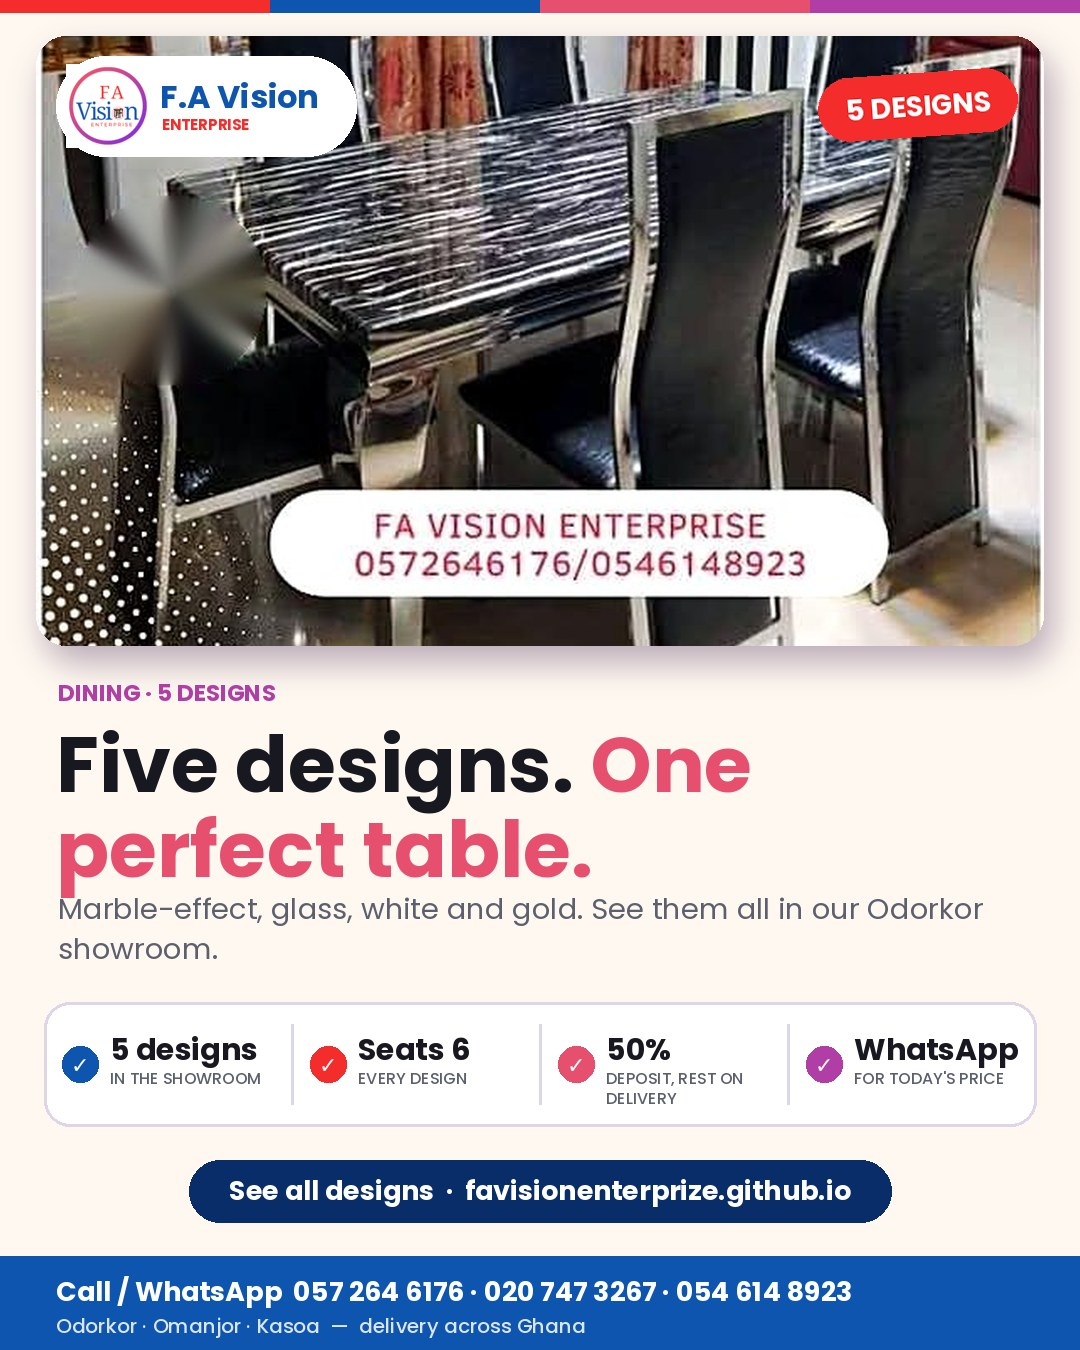
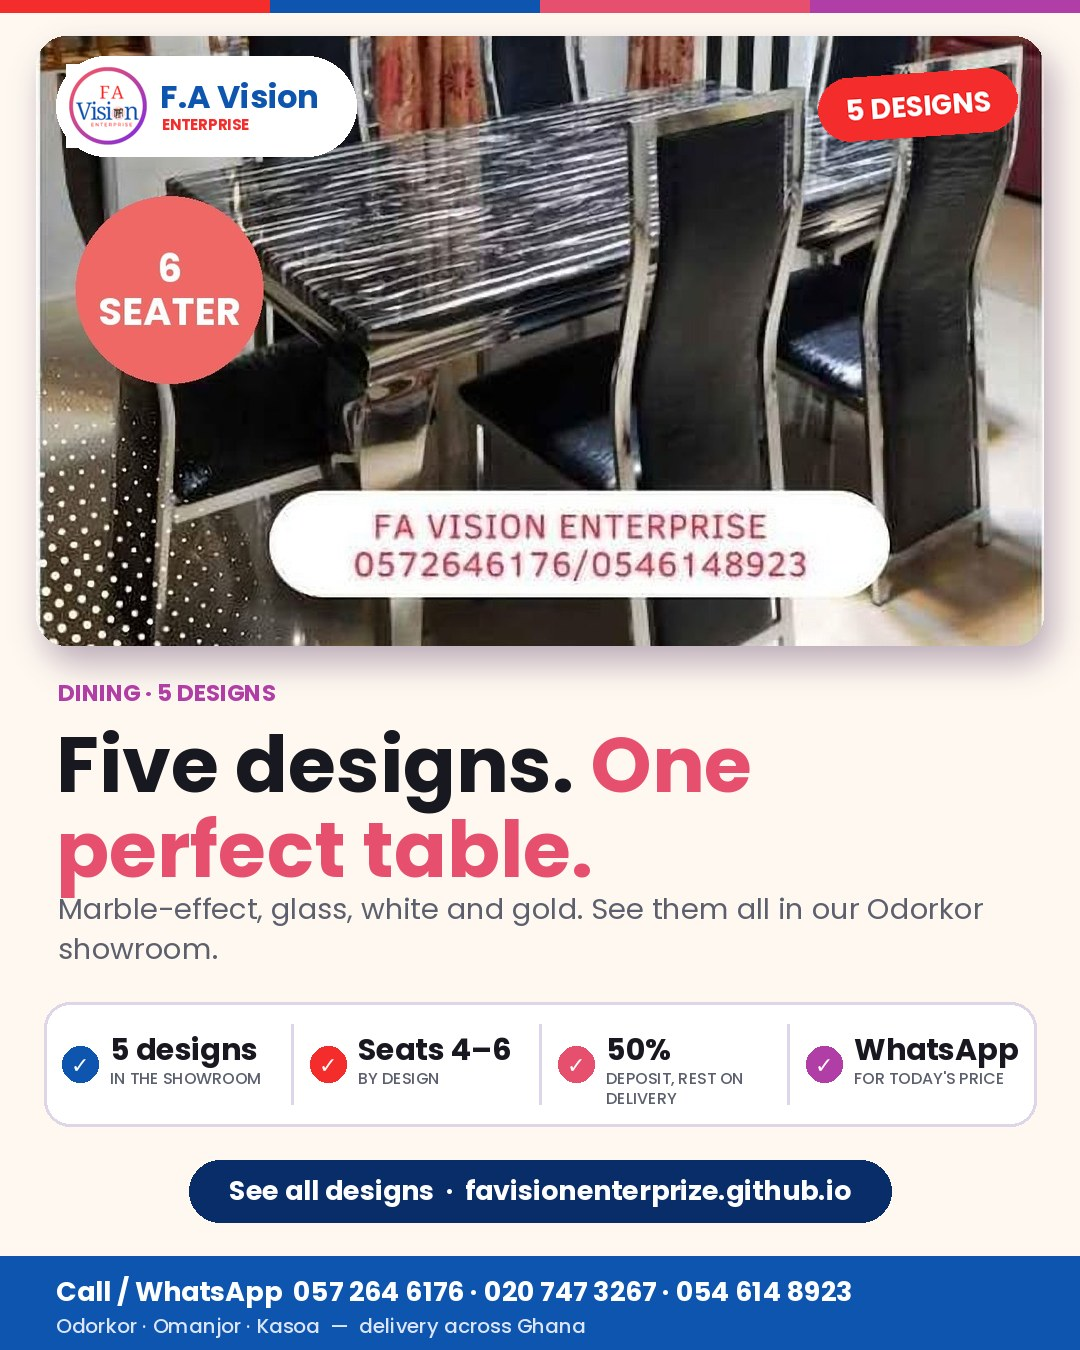
Rebuild ads and listing texts after a price or promo change

diff --git a/assets/js/products-data.js b/assets/js/products-data.js
@@ -198,8 +198,8 @@ window.FAV_DATA = {
               "in the showroom"
             ],
             [
-              "Seats 6",
-              "every design"
+              "Seats 4–6",
+              "by design"
             ],
             [
               "50%",
@@ -724,44 +724,51 @@ window.FAV_DATA = {
         {
           "id": "1311767852009968",
           "title": "Dinning Set with Chairs",
-          "price": 4000,
-          "checked": "2026-09-29"
+          "price": 12600,
+          "checked": "2026-09-29",
+          "synced": "2026-09-29"
         },
         {
           "id": "1603407604448580",
           "title": "Dinning Set with Chairs",
-          "price": 4000,
-          "checked": "2026-09-29"
+          "price": 12600,
+          "checked": "2026-09-29",
+          "synced": "2026-09-29"
         },
         {
           "id": "2013308532646791",
           "title": "Dinning Set with Chairs",
-          "price": 4000,
-          "checked": "2026-09-29"
+          "price": 12600,
+          "checked": "2026-09-29",
+          "synced": "2026-09-29"
         },
         {
           "id": "2014254805941890",
           "title": "Dinning Set with Chairs",
-          "price": 4000,
-          "checked": "2026-09-29"
+          "price": 12600,
+          "checked": "2026-09-29",
+          "synced": "2026-09-29"
         },
         {
           "id": "2035660797321715",
           "title": "Dinning Set with Chairs",
-          "price": 4000,
-          "checked": "2026-09-29"
+          "price": 12600,
+          "checked": "2026-09-29",
+          "synced": "2026-09-29"
         },
         {
           "id": "2448932802255359",
           "title": "Dinning Set with Chairs",
-          "price": 4000,
-          "checked": "2026-09-29"
+          "price": 12600,
+          "checked": "2026-09-29",
+          "synced": "2026-09-29"
         },
         {
           "id": "1744732466544259",
           "title": "Dinning Set with Chairs",
           "price": 12600,
-          "checked": "2026-09-29"
+          "checked": "2026-09-29",
+          "synced": "2026-09-29"
         }
       ]
     },
@@ -800,7 +807,8 @@ window.FAV_DATA = {
           "id": "2065160547702285",
           "title": "Dinning Set",
           "price": 4900,
-          "checked": "2026-09-29"
+          "checked": "2026-09-29",
+          "synced": "2026-09-29"
         }
       ]
     },
@@ -813,10 +821,10 @@ window.FAV_DATA = {
       "price_ghs": 12600,
       "negotiable": true,
       "icon": "🍽",
-      "description": "Five showroom designs to choose from, all seating six: black marble-effect with chrome chairs, black glass with quilted high-back chairs, frosted white-top, cream marble with gold legs, and a compact black set with a lace runner. Tell us which design you like on WhatsApp and we'll confirm today's price, colour and delivery date.",
+      "description": "Five showroom designs to choose from, seating four to six: black marble-effect with chrome chairs, black glass with quilted high-back chairs, frosted white-top, cream marble with gold legs, and a compact black set with a lace runner. Tell us which design you like on WhatsApp and we'll confirm today's price, colour and delivery date.",
       "condition": "Brand New",
       "material": "Glass or marble-effect tops, chrome, gold or powder-coated frames, padded chairs",
-      "dimensions": "Seats 6",
+      "dimensions": "Seats 4–6",
       "colors": [
         "Black",
         "White",
@@ -834,7 +842,7 @@ window.FAV_DATA = {
       ],
       "highlights": [
         "5 designs in the showroom",
-        "All seat 6",
+        "Seat 4 to 6",
         "Glass and marble-effect tops",
         "Delivery and assembly in Accra"
       ],
@@ -843,14 +851,16 @@ window.FAV_DATA = {
         {
           "id": "2109442323303440",
           "title": "Dinning Table and Chairs",
-          "price": 6500,
-          "checked": "2026-09-29"
+          "price": 12600,
+          "checked": "2026-09-29",
+          "synced": "2026-09-29"
         },
         {
           "id": "1764658334886015",
           "title": "Dinning Table and Chairs",
-          "price": 7500,
-          "checked": "2026-09-29"
+          "price": 12600,
+          "checked": "2026-09-29",
+          "synced": "2026-09-29"
         }
       ]
     },
@@ -888,9 +898,9 @@ window.FAV_DATA = {
         {
           "id": "1594121875660402",
           "title": "6 Seater Dinning Table and Chairs 2",
-          "price": 4500,
+          "price": 12600,
           "checked": "2026-09-29",
-          "currency": "USD"
+          "synced": "2026-09-29"
         }
       ]
     },
@@ -926,20 +936,23 @@ window.FAV_DATA = {
         {
           "id": "2034544120477816",
           "title": "Foldable Dinning set",
-          "price": 1900,
-          "checked": "2026-09-29"
+          "price": 11900,
+          "checked": "2026-09-29",
+          "synced": "2026-09-29"
         },
         {
           "id": "2210222543093179",
           "title": "Foldable Dinning set",
           "price": 11900,
-          "checked": "2026-09-29"
+          "checked": "2026-09-29",
+          "synced": "2026-09-29"
         },
         {
           "id": "2430673257456563",
           "title": "Foldable Dinning set",
-          "price": 1900,
-          "checked": "2026-09-29"
+          "price": 11900,
+          "checked": "2026-09-29",
+          "synced": "2026-09-29"
         }
       ]
     },
@@ -979,14 +992,16 @@ window.FAV_DATA = {
         {
           "id": "1731868418004032",
           "title": "EXECUTIVE DIRECTOR CHAIR",
-          "price": 1500,
-          "checked": "2026-09-29"
+          "price": 9500,
+          "checked": "2026-09-29",
+          "synced": "2026-09-29"
         },
         {
           "id": "2079527839369779",
           "title": "EXECUTIVE DIRECTOR CHAIR",
-          "price": 9450,
-          "checked": "2026-09-29"
+          "price": 9500,
+          "checked": "2026-09-29",
+          "synced": "2026-09-29"
         }
       ]
     },
@@ -1025,20 +1040,23 @@ window.FAV_DATA = {
         {
           "id": "1383440223751492",
           "title": "Secretary Chair",
-          "price": 1500,
-          "checked": "2026-09-29"
+          "price": 9500,
+          "checked": "2026-09-29",
+          "synced": "2026-09-29"
         },
         {
           "id": "1603444211161872",
           "title": "Secretary Chair",
-          "price": 1500,
-          "checked": "2026-09-29"
+          "price": 9500,
+          "checked": "2026-09-29",
+          "synced": "2026-09-29"
         },
         {
           "id": "1444293004167566",
           "title": "Premium Ergonomic Executive Chairs for Office Use: Luxurious Comfort, Adjustable Features & Stylish.",
           "price": 9500,
-          "checked": "2026-09-29"
+          "checked": "2026-09-29",
+          "synced": "2026-09-29"
         }
       ]
     },
@@ -1075,7 +1093,8 @@ window.FAV_DATA = {
           "id": "1458005823024498",
           "title": "1.2m Desk for GH4500 in a flat pack",
           "price": 4500,
-          "checked": "2026-09-29"
+          "checked": "2026-09-29",
+          "synced": "2026-09-29"
         }
       ]
     },
@@ -1114,26 +1133,30 @@ window.FAV_DATA = {
         {
           "id": "1067452355735921",
           "title": "Dressing Mirror & Chair",
-          "price": 7650,
-          "checked": "2026-09-29"
+          "price": 7450,
+          "checked": "2026-09-29",
+          "synced": "2026-09-29"
         },
         {
           "id": "1241817175679311",
           "title": "Dressing Mirror & Chair",
-          "price": 2500,
-          "checked": "2026-09-29"
+          "price": 7450,
+          "checked": "2026-09-29",
+          "synced": "2026-09-29"
         },
         {
           "id": "27757506730566659",
           "title": "Dressing Mirror & Chair",
           "price": 7450,
-          "checked": "2026-09-29"
+          "checked": "2026-09-29",
+          "synced": "2026-09-29"
         },
         {
           "id": "28733668472887481",
           "title": "Dressing Mirror & Chair",
           "price": 7450,
-          "checked": "2026-09-29"
+          "checked": "2026-09-29",
+          "synced": "2026-09-29"
         }
       ]
     },
@@ -1175,7 +1198,8 @@ window.FAV_DATA = {
           "id": "1785884179255536",
           "title": "Wardrobes very strong and durable",
           "price": 9800,
-          "checked": "2026-09-29"
+          "checked": "2026-09-29",
+          "synced": "2026-09-29"
         }
       ]
     },
@@ -1214,7 +1238,8 @@ window.FAV_DATA = {
           "id": "993925170304987",
           "title": "Living room sofa",
           "price": 15500,
-          "checked": "2026-09-29"
+          "checked": "2026-09-29",
+          "synced": "2026-09-29"
         }
       ]
     },
@@ -1257,13 +1282,15 @@ window.FAV_DATA = {
           "id": "1556071675833395",
           "title": "Classroom Desk- Metal Wood Frame Packing Tertiary SHS School Seating",
           "price": 650,
-          "checked": "2026-09-29"
+          "checked": "2026-09-29",
+          "synced": "2026-09-29"
         },
         {
           "id": "1761804398173847",
           "title": "School Furniture That Inspires Achievement",
           "price": 650,
-          "checked": "2026-09-29"
+          "checked": "2026-09-29",
+          "synced": "2026-09-29"
         }
       ]
     }

diff --git a/output/listings.md b/output/listings.md
@@ -176,17 +176,17 @@ Order: https://wa.me/233572646176?text=Hello%20F.A%20Vision%2C%20I%27m%20interes
 ```
 Dining Set Collection — 5 Designs, 6 Chairs by F.A Vision Enterprise.
 
-Five showroom designs to choose from, all seating six: black marble-effect with chrome chairs, black glass with quilted high-back chairs, frosted white-top, cream marble with gold legs, and a compact black set with a lace runner. Tell us which design you like on WhatsApp and we'll confirm today's price, colour and delivery date.
+Five showroom designs to choose from, seating four to six: black marble-effect with chrome chairs, black glass with quilted high-back chairs, frosted white-top, cream marble with gold legs, and a compact black set with a lace runner. Tell us which design you like on WhatsApp and we'll confirm today's price, colour and delivery date.
 
 👉 See all photos, price and order online: https://favisionenterprize.github.io/#product/FAV-003
 
 ✔ 5 designs in the showroom
-✔ All seat 6
+✔ Seat 4 to 6
 ✔ Glass and marble-effect tops
 ✔ Delivery and assembly in Accra
 
 Material: Glass or marble-effect tops, chrome, gold or powder-coated frames, padded chairs
-Size: Seats 6
+Size: Seats 4–6
 Colours: Black, White, Cream, Gold
 Custom sizes, colours and finishes available.
 
@@ -206,7 +206,7 @@ Ref: FAV-003
 ```
 🛋 Dining Set Collection — 5 Designs, 6 Chairs available now!
 • 5 designs in the showroom
-• All seat 6
+• Seat 4 to 6
 • Glass and marble-effect tops
 • Delivery and assembly in Accra
 💰 GH₵ 12,600
